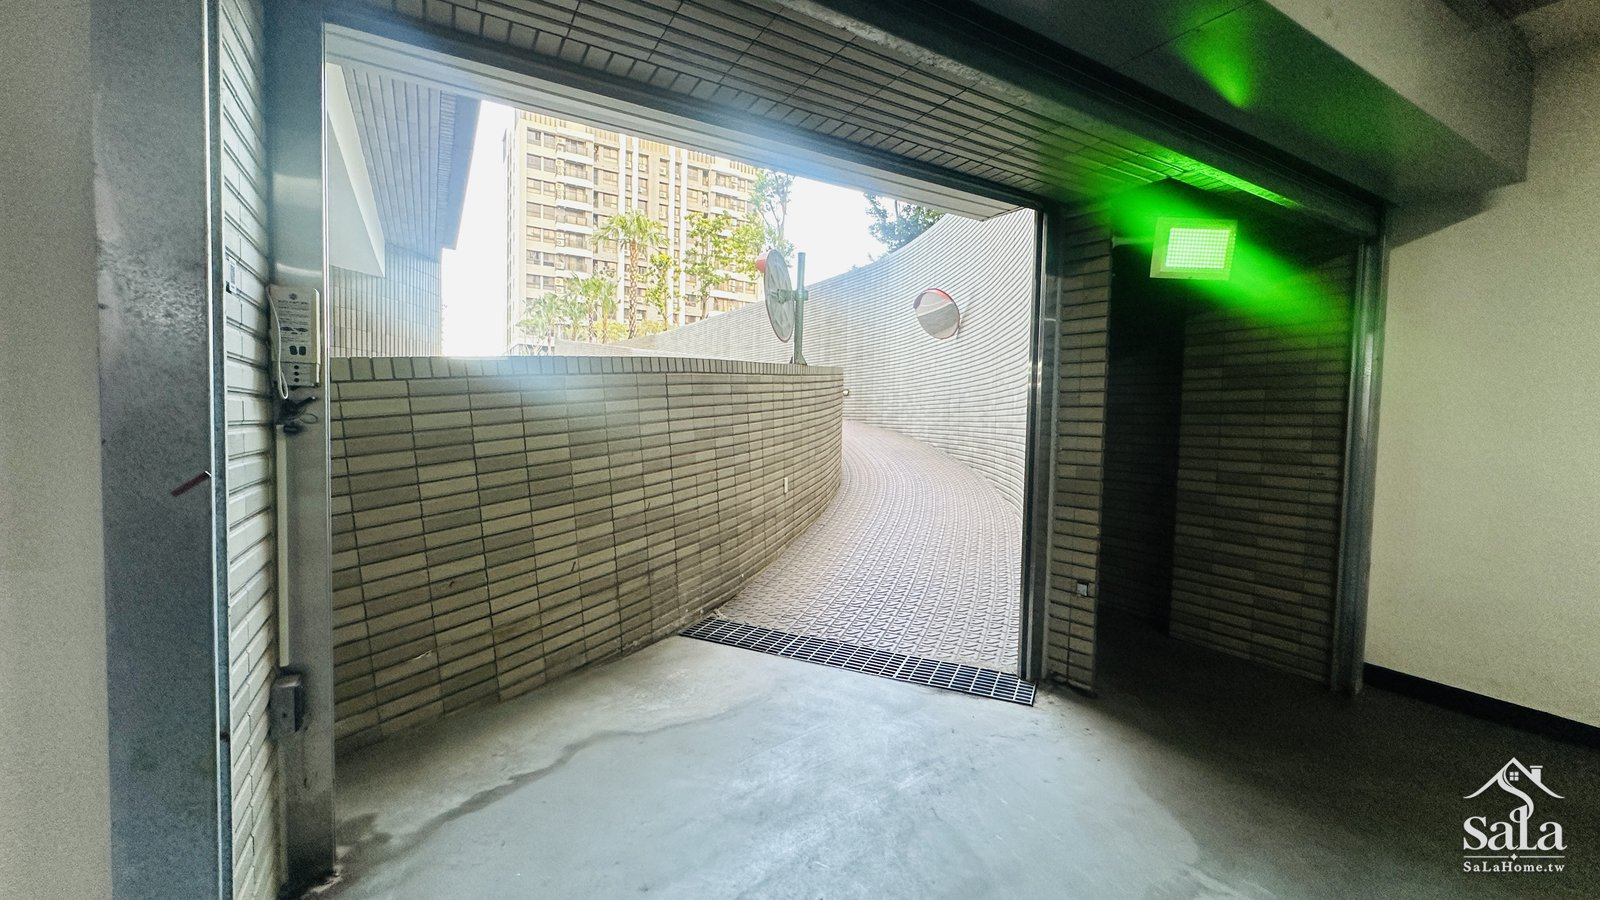
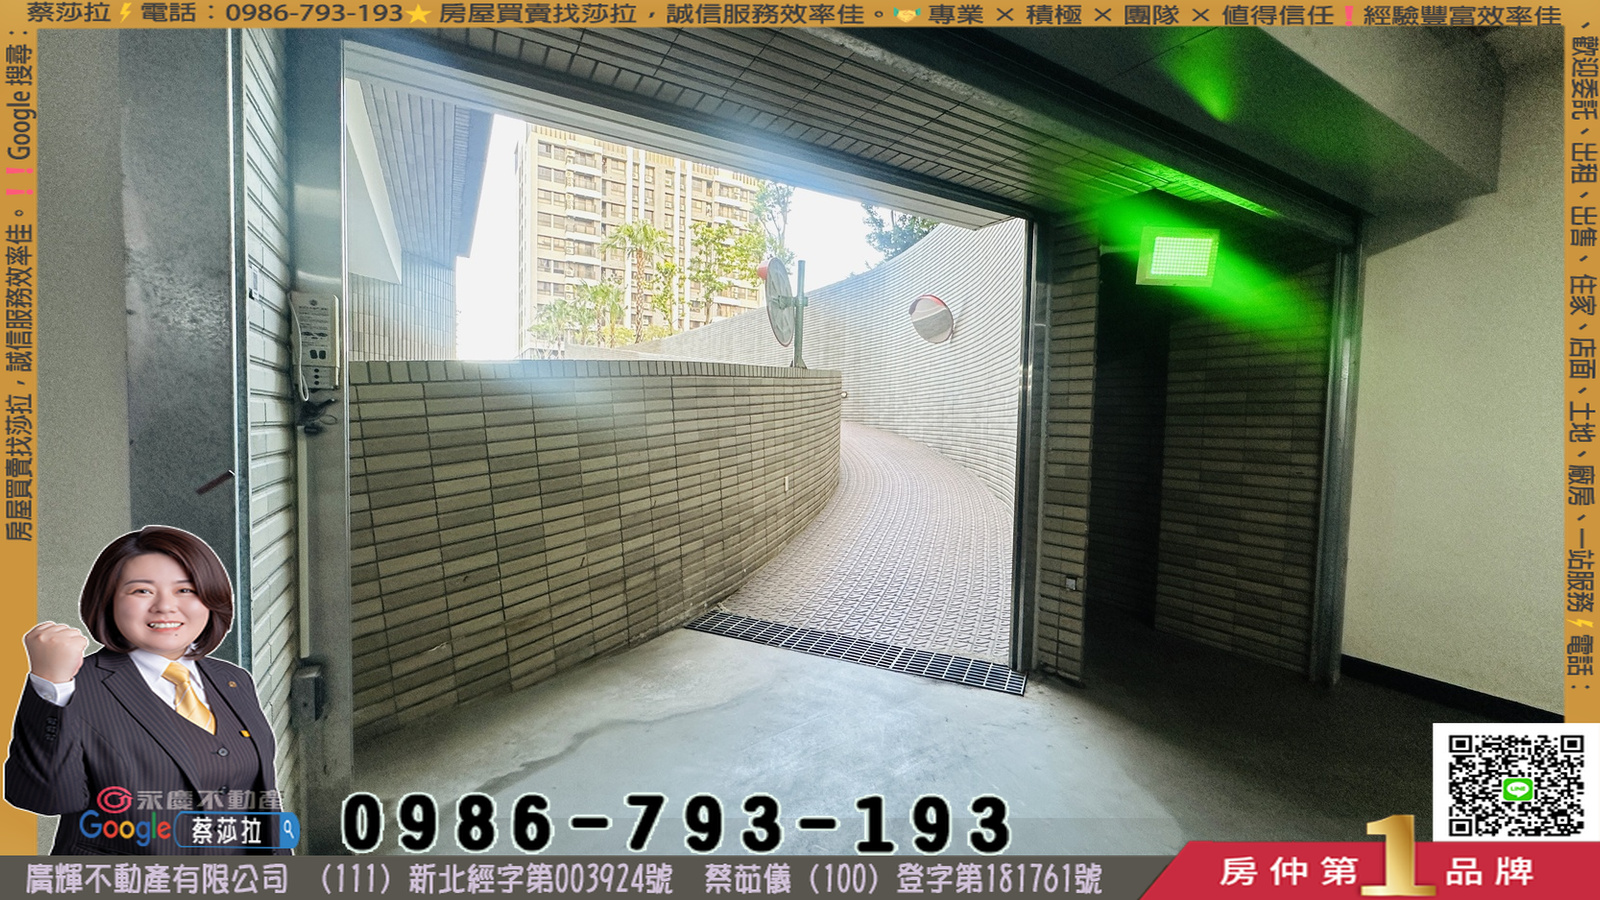
森睦文章：小標題加社區名與搜尋詞、新增「為什麼討論度這麼高」、常見問答補到 6 題；5 張現場照片改押莎拉畫中畫浮水印（縮 96% 押上框）

diff --git a/src/content/communities/senmu.md b/src/content/communities/senmu.md
@@ -19,7 +19,9 @@ tags: ["鳳鳴", "森睦", "森聯", "電梯大樓", "鳳鳴重劃區", "成屋"
 成家本該是開心的好事；我是那個願意為你處理繁瑣細節的莎拉姐。
 在鶯歌與鳳鳴深耕近 20 年，我看著這裡從重劃配地一路長出新大樓。
 
-## 30 秒重點
+<p style="font-size:0.85rem;color:var(--text-soft);">關鍵字：森睦、鶯歌森睦、鳳鳴重劃區森睦、森睦可以買嗎、森睦看屋重點</p>
+
+## 森睦 30 秒重點
 
 - **屋齡約 2 年**的新成屋，**1 棟、201 戶**
 - **車位 1 比 1，戶戶有車位**，全部是平面／坡道平面，汽車機車分道
@@ -29,7 +31,7 @@ tags: ["鳳鳴", "森睦", "森聯", "電梯大樓", "鳳鳴重劃區", "成屋"
 - **管理費約每坪 80 元**（我推算的，不是管委會公告）
 - 走路 13～15 分鐘到捷運、學校、火車站，**騎微笑單車只要 3～4 分鐘**
 
-## 莎拉說
+## 莎拉說：森睦的公設與管理費
 
 <blockquote class="sala-says">
 <p>森睦是大型社區，公設是目前鳳鳴最完善的，公設非常多樣，管理費分攤下來很合理。</p>
@@ -39,7 +41,17 @@ tags: ["鳳鳴", "森睦", "森聯", "電梯大樓", "鳳鳴重劃區", "成屋"
 
 ---
 
-## 1. 基本資料
+## 1. 為什麼鳳鳴重劃區的森睦討論度這麼高？
+
+- **新**：屋齡約 2 年，不用等交屋，進來就看得到真實屋況
+- **大**：1 棟 201 戶的大型社區，公設做得齊
+- **多**：2 樓、3 樓的包間和場地，從健身房、KTV 到餐廳空間
+- **有車位**：車位 1 比 1，汽車機車分道
+- **進出順**：4 部 15 人座電梯，飯店級的梯間
+
+很多客人會直接問我「森睦可以買嗎？」。看你更重視什麼，再決定適不適合，下面我一項一項帶你看。
+
+## 2. 森睦基本資料
 
 | 項目 | 內容 |
 |---|---|
@@ -52,7 +64,7 @@ tags: ["鳳鳴", "森睦", "森聯", "電梯大樓", "鳳鳴重劃區", "成屋"
 | 車位 | 202 個，1 比 1，平面／坡道平面 |
 | 使用執照 | 113鶯使字第00207號 |
 
-## 2. 走路和騎車要多久？
+## 3. 森睦走路和騎微笑單車要多久？
 
 從社區（鳳七路 300 號）出發：
 
@@ -69,7 +81,7 @@ tags: ["鳳鳴", "森睦", "森聯", "電梯大樓", "鳳鳴重劃區", "成屋"
 附近的微笑單車站：鳳七鶯歌路口、鳳福公園、鳳吉四鳳七路口、鳳五路122號前、臺鐵鳳鳴站。
 鳳鳴有很多微笑單車站，是日常通勤的一大優勢。
 
-## 3. 我到現場看到的
+## 4. 我到現場看到的森睦公設
 
 <figure style="margin:1.2em 0;">
 <img src="/images/communities/senmu/elevator.jpg" alt="森睦 1 樓電梯間" loading="lazy" style="width:100%;height:auto;border-radius:8px;" />
@@ -106,14 +118,14 @@ tags: ["鳳鳴", "森睦", "森聯", "電梯大樓", "鳳鳴重劃區", "成屋"
 </figure>
 公設怎麼使用，要看社區管委會討論的規章，帶看時我陪你一起看。
 
-## 4. 實價登錄行情
+## 5. 森睦實價登錄行情
 
 - 近 12 個月成交 **4 筆**
 - 筆數還不多，我先只告訴你筆數，不急著下行情結論
 - 其中 2 筆有拆開車位價：車位約 **180～190 萬**（中位數 185 萬）
 - 樓層高低、有沒有車位、屋況，都會反映在價格上
 
-## 5. 看屋時，我陪你看這 5 件事
+## 6. 看森睦前要確認的事：看屋時，我陪你看這 5 件事
 
 1. **公設怎麼用**：開放時段、使用規章，一起了解
 2. **採光和通風**：不同樓層、座向差很多，現場開窗感受
@@ -121,20 +133,29 @@ tags: ["鳳鳴", "森睦", "森聯", "電梯大樓", "鳳鳴重劃區", "成屋"
 4. **周邊環境**：在附近街道散步一趟
 5. **貸款**：看中意的戶別，我先幫你送銀行初估，自備款和額度確認清楚
 
-## 6. 哪種人適合？
+## 7. 森睦可以買嗎？適合誰、怎麼選
 
 - **想住新成屋、車位好停、喜歡公設多的人**：森睦很適合親自來看看
 - **想要不同風格的規劃**：帶看時我也陪你看周邊其他社區，一起比較
 
-## 常見問答
+## 森睦常見問答
 
-**Q：管理費大概多少？**
-每坪約 80 元（我依在售案件推算，不是公告）。實際規約，帶看時一起調閱。
+**Q1：森睦的管理費大概多少？**
+每坪約 80 元（我依在售案件推算，不是管委會公告）。實際規約，帶看時一起調閱。
 
-**Q：到火車站和捷運站要多久？**
-走路 13～15 分鐘，騎微笑單車約 4 分鐘。
+**Q2：森睦到火車站和捷運站要多久？**
+走路 13～15 分鐘，騎微笑單車約 4 分鐘。從社區騎到鳳鳴國小、國中約 3 分鐘。
 
-**Q：銀行可以貸幾成？**
+**Q3：森睦現在實價登錄的行情怎麼看？**
+近 12 個月成交 4 筆，筆數還不多，我先只告訴你筆數。有看中意的戶別，我陪你把條件相近的紀錄一筆一筆對照，才不會用錯參考基準。
+
+**Q4：森睦跟森聯在鳳鳴的其他案子有什麼不同？**
+森聯在鳳鳴共有 8 案、784 戶。森睦是其中 1 棟 201 戶的大型社區，特色是公設多樣、201 戶共用 4 部 15 人座電梯。其他案子的細節比較，帶看時我陪你一起看。
+
+**Q5：買森睦來收租，租金行情大概多少？**
+這部分我沒有整理租金數字，歡迎預約看屋，我陪你看近期的租屋行情。
+
+**Q6：銀行可以貸幾成？**
 每個人條件不同。看中意的戶別，我先幫你送銀行初估，確認清楚再決定。
 
 ---
